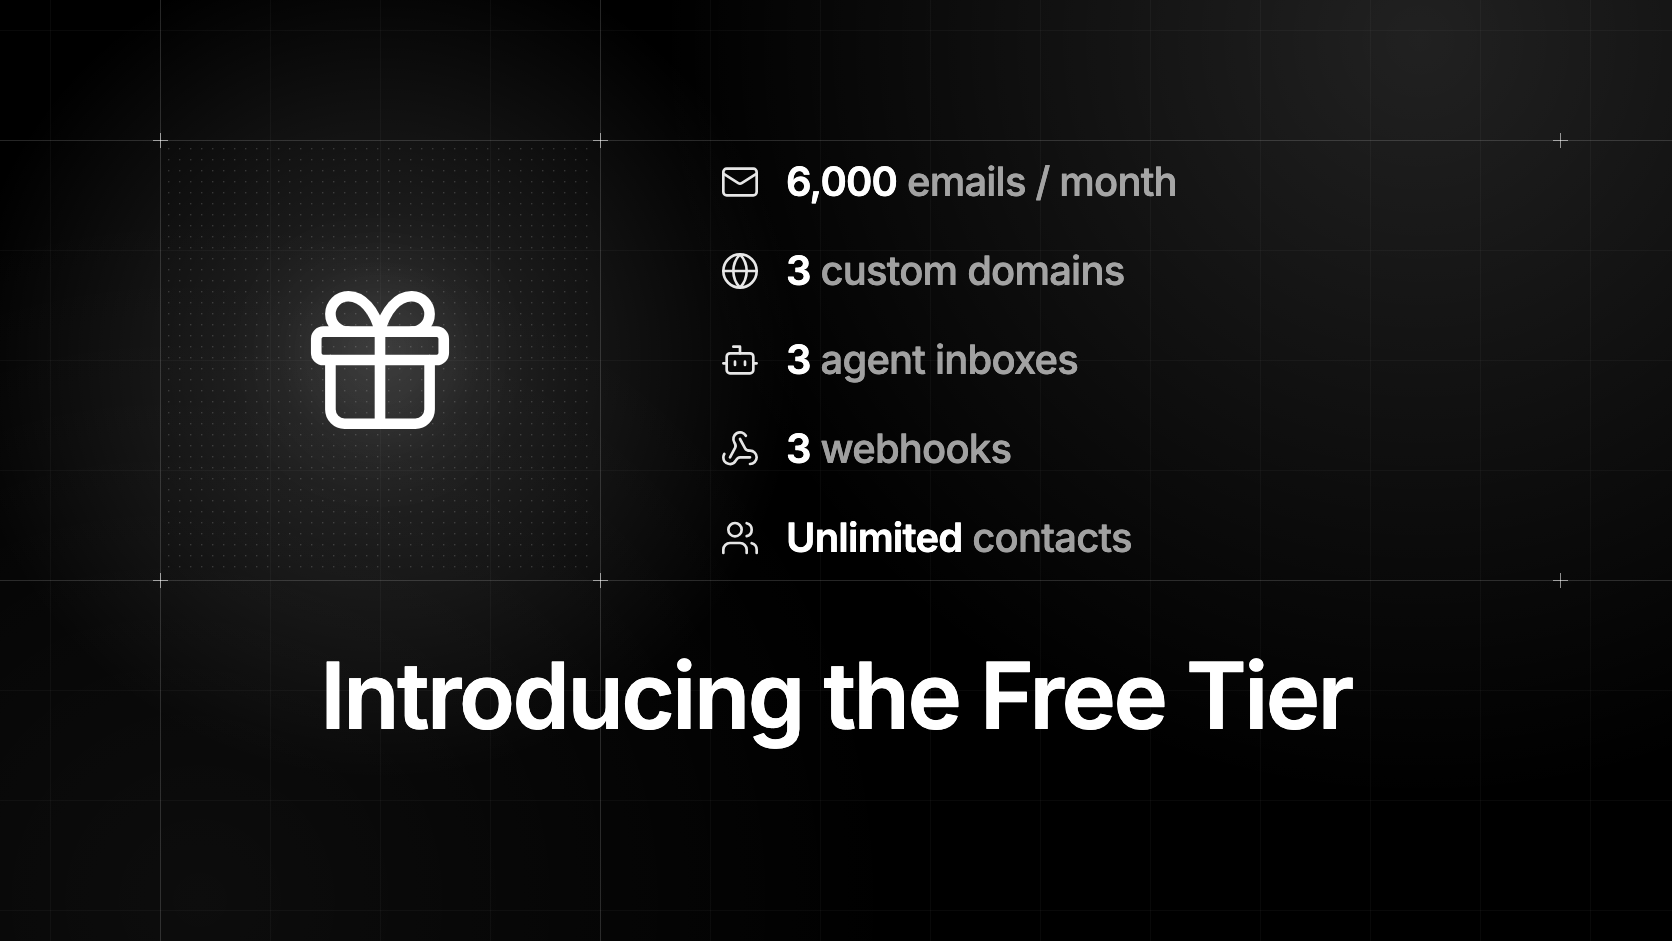
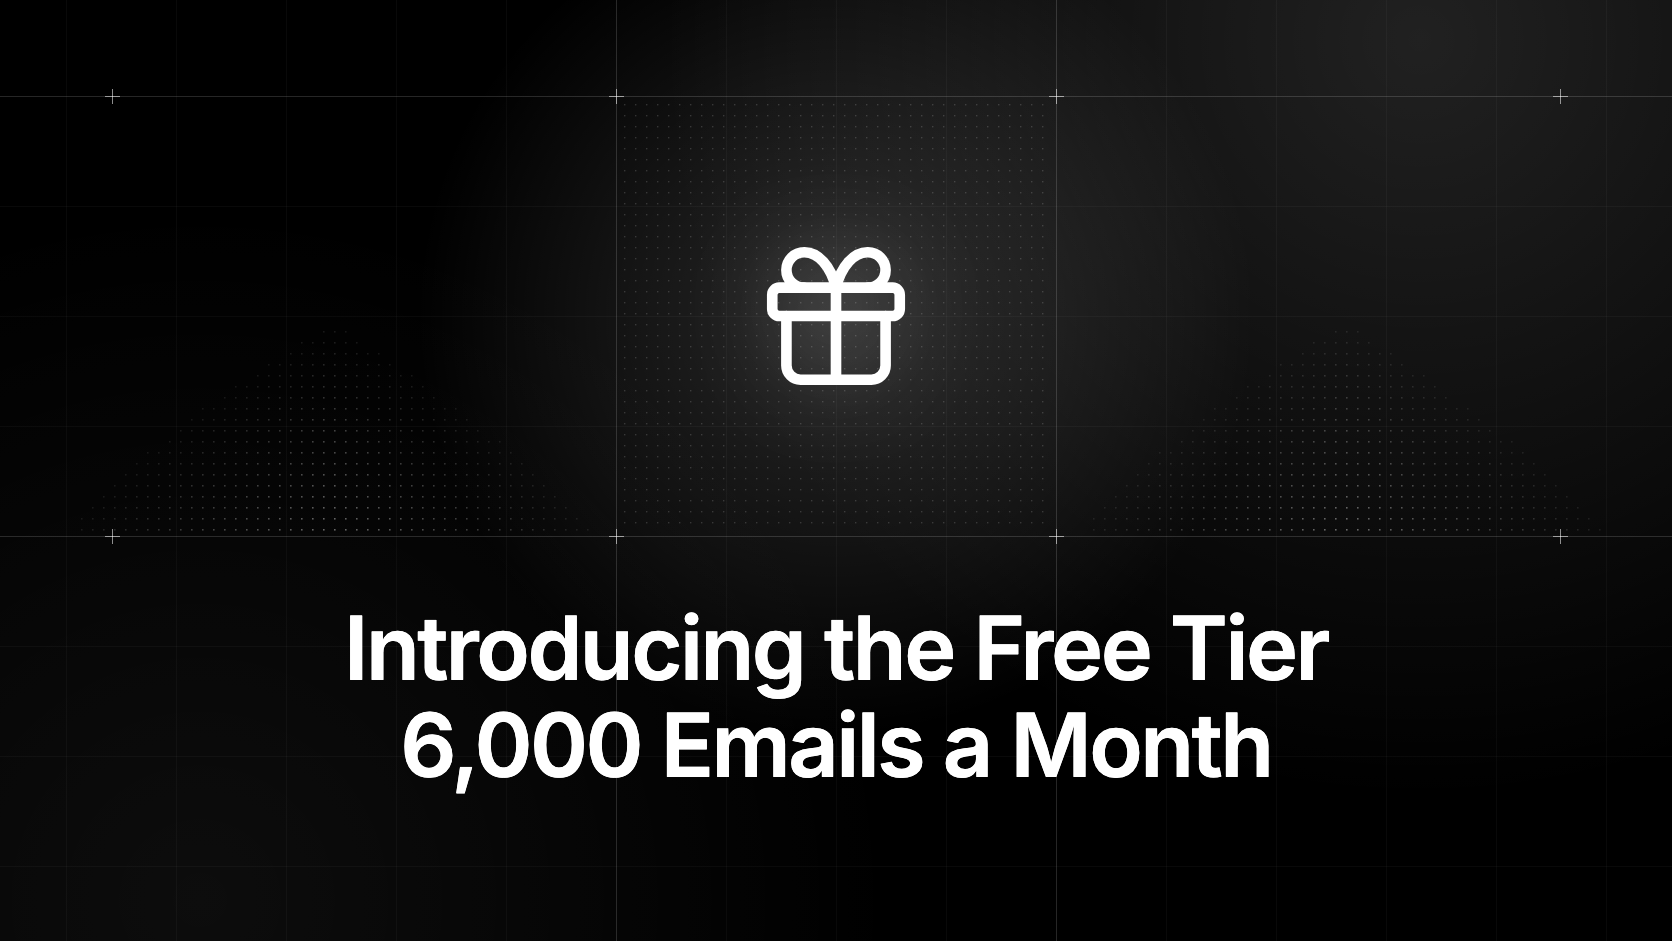
refactor: redesign mdx callout component and update free tier blog image

diff --git a/apps/frontend/web/src/components/mdx/callout.tsx b/apps/frontend/web/src/components/mdx/callout.tsx
@@ -2,22 +2,17 @@ import { cn } from "@reloop/ui/cn";
 import { Icon } from "@reloop/ui/icon";
 import type { ReactNode } from "react";
 
-// Same surface as the post's Summary card; only warning gets a colour.
+const blue =
+	"border-information-base/25 bg-information-base/[0.06] dark:border-information-base/30 dark:bg-information-base/10";
+
+// Icon on the left, text on the right, tinted by type.
 const variants = {
-	info: {
-		label: "Note",
-		icon: "info-outline",
-		accent: "text-text-strong-950 dark:text-white",
-	},
-	tip: {
-		label: "Tip",
-		icon: "magic-wand",
-		accent: "text-text-strong-950 dark:text-white",
-	},
+	info: { icon: "info-outline", box: blue, iconColor: "text-information-base" },
+	tip: { icon: "bulb", box: blue, iconColor: "text-information-base" },
 	warning: {
-		label: "Warning",
 		icon: "alert-triangle",
-		accent: "text-warning-base",
+		box: "border-warning-base/25 bg-warning-base/[0.06] dark:border-warning-base/30 dark:bg-warning-base/10",
+		iconColor: "text-warning-base",
 	},
 } as const;
 
@@ -31,17 +26,12 @@ export function Callout({
 	const variant = variants[type];
 
 	return (
-		<aside className="my-6 rounded-2xl border border-stroke-soft-200 bg-bg-weak-50/70 p-5 dark:border-white/10 dark:bg-white/[0.03]">
-			<div
-				className={cn(
-					"mb-2 flex items-center gap-1.5 font-mono font-semibold text-[11px] uppercase tracking-widest",
-					variant.accent,
-				)}
-			>
-				<Icon name={variant.icon} className="size-3.5" />
-				<span>{variant.label}</span>
-			</div>
-			<div className="text-[14.5px] text-text-sub-600 leading-relaxed dark:text-white/60 [&_p+p]:mt-3! [&_p]:my-0!">
+		<aside className={cn("my-6 flex gap-3 rounded-xl border p-4", variant.box)}>
+			<Icon
+				name={variant.icon}
+				className={cn("mt-[5px] size-4 shrink-0", variant.iconColor)}
+			/>
+			<div className="min-w-0 flex-1 text-[14.5px] text-text-strong-950 leading-relaxed dark:text-white/85 [&_p+p]:mt-3! [&_p]:my-0!">
 				{children}
 			</div>
 		</aside>
